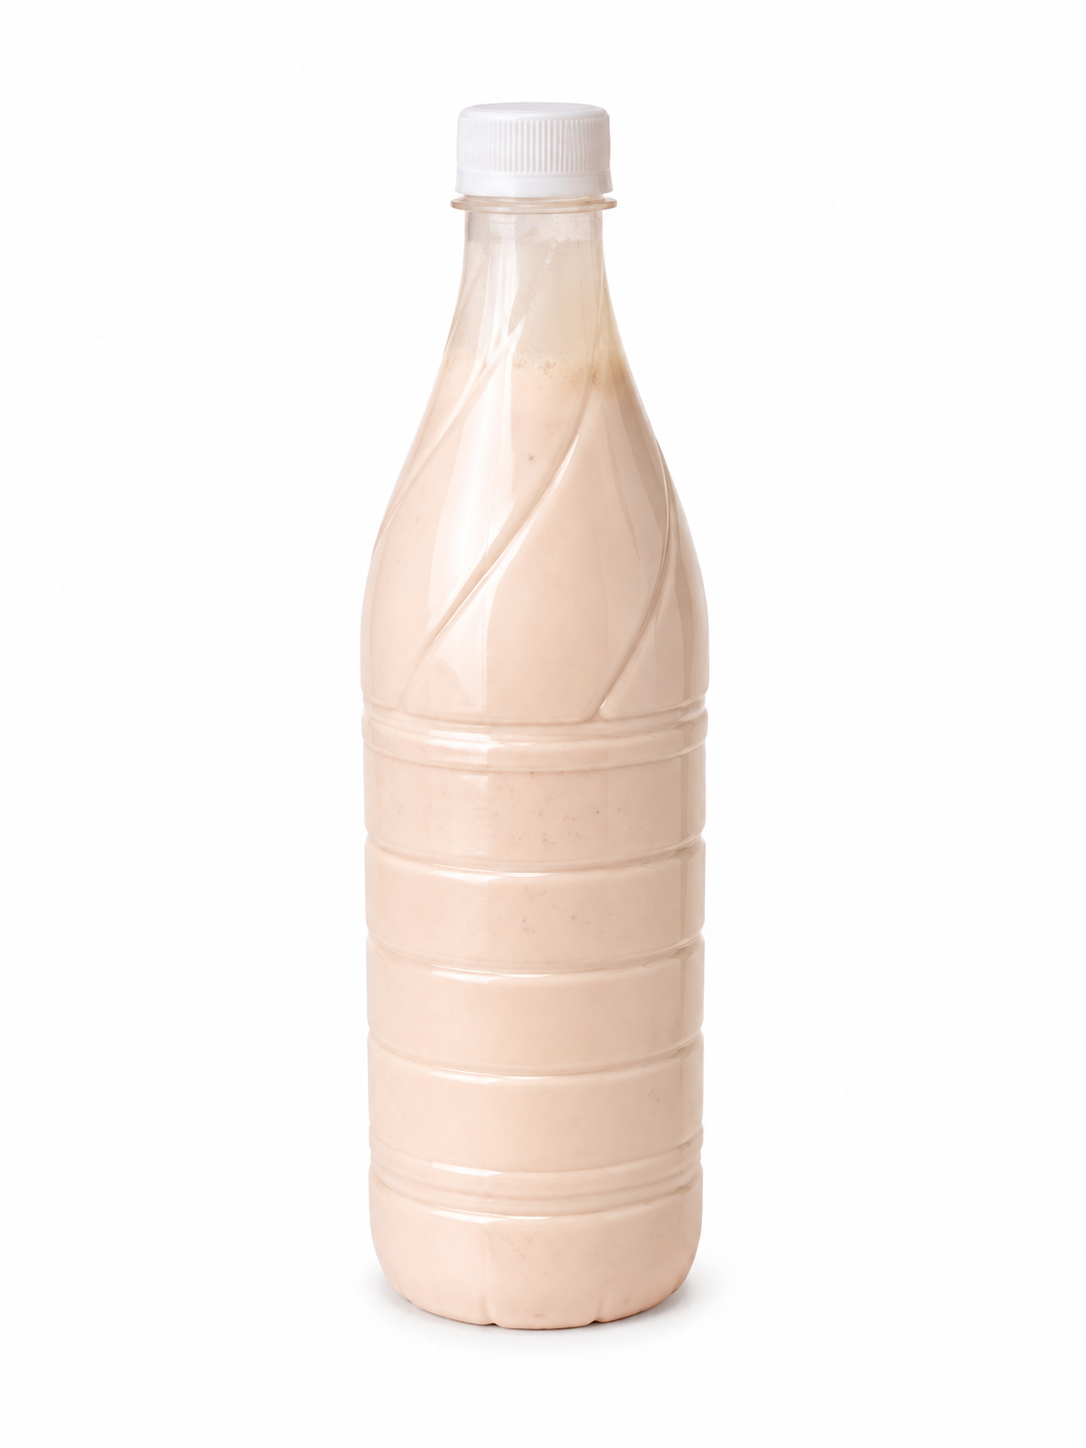
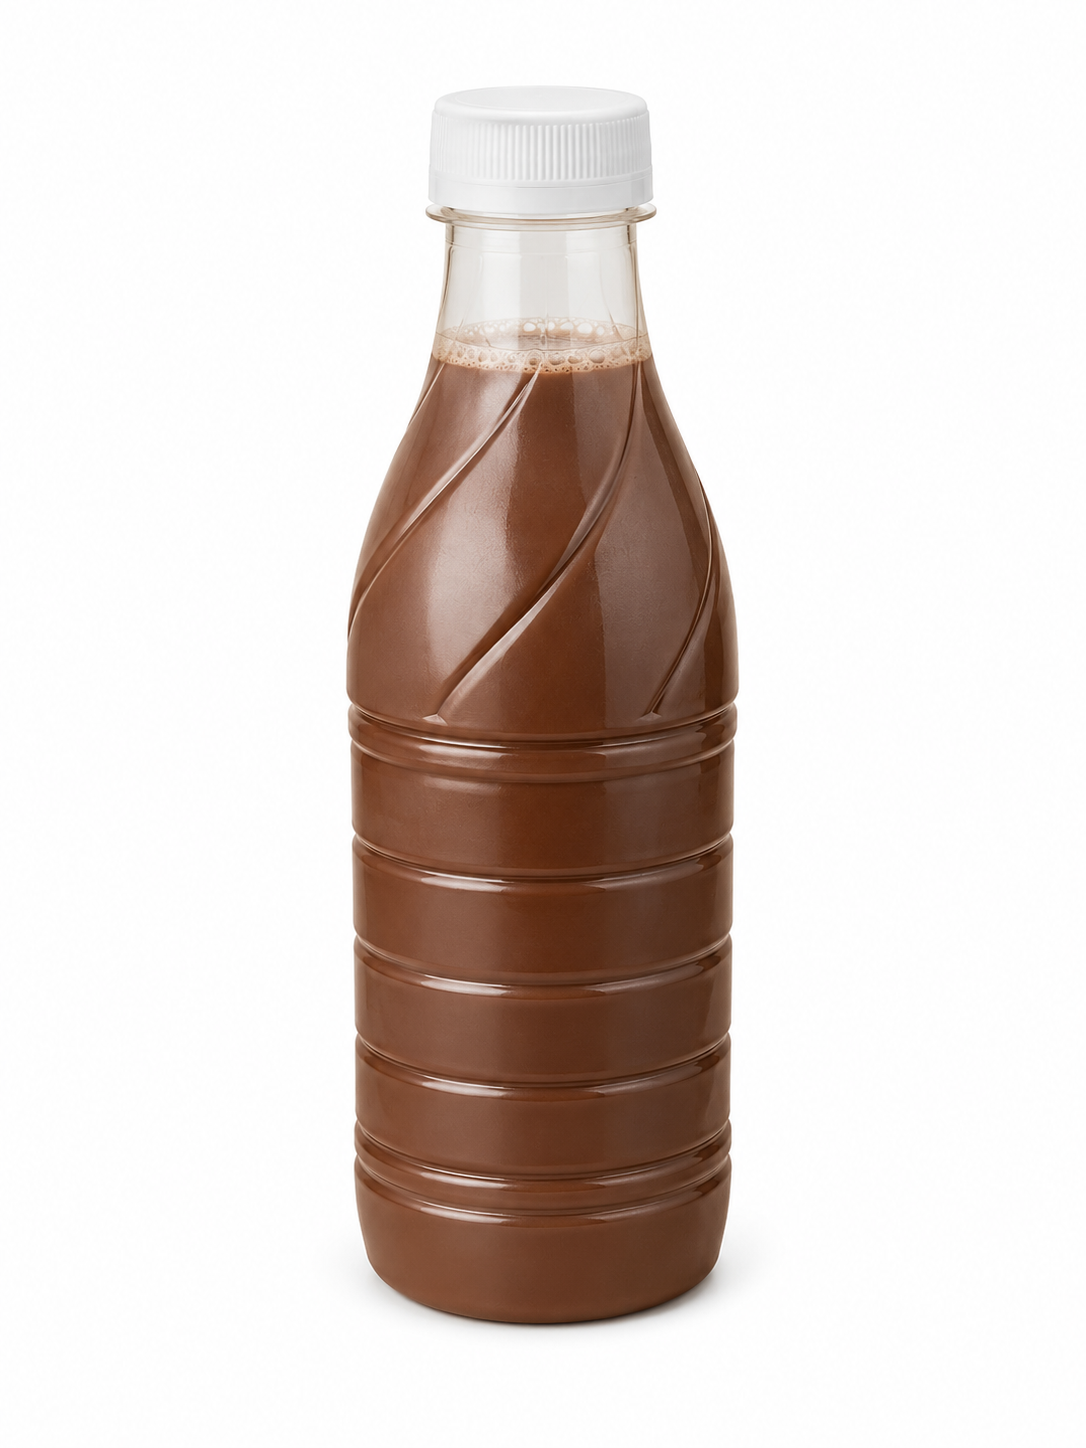
Completely remove top blocks and emojis for products without photos

Changed region(s): [[0.3039, 0.0622, 0.6989, 0.9323]]

diff --git a/js/products.js b/js/products.js
@@ -1,4 +1,4 @@
-// Fetch and render products dynamically with perfectly aligned, symmetrical cards
+// Fetch and render products dynamically with clean cards (no top placeholder blocks or emojis for items without photos)
 
 const realProductImages = {
     "Chill": "assets/chill.png",
@@ -57,17 +57,6 @@ const realProductImages = {
     "Glace": "assets/glace.png",
     "Pain Marbré": "assets/marbre.png",
     "Pain de Mie": "assets/pain de mie.png"
-};
-
-const catIcons = {
-    'pain': '🥖',
-    'viennoiserie': '🥐',
-    'patisserie': '🍰',
-    'cafe': '☕',
-    'jus': '🥤',
-    'glace': '🍨',
-    'boisson': '🥤',
-    'snack': '🍕'
 };
 
 const FALLBACK_PRODUCTS = [
@@ -218,69 +207,75 @@ function renderProducts(productsList) {
         const imgSrc = realProductImages[p.nom] || (p.image && p.image !== 'null' ? p.image : null);
         const hasRealImage = !!imgSrc;
         
-        const imageHeaderHTML = hasRealImage ? `
-            <div class="position-relative overflow-hidden product-img-container" style="height:160px;background:#ffffff;">
-                <img loading="lazy" src="${imgSrc}" class="card-img-top product-img" alt="${p.nom}" 
-                    style="height:160px;width:100%;object-fit:cover;transition:transform 0.4s ease;"
-                    onerror="handleImgError(this, '${p.categorie}')">
-                <button class="wishlist-btn position-absolute top-0 end-0 m-2 btn btn-sm bg-white rounded-circle shadow-sm border-0 text-danger"
-                    title="Ajouter aux favoris" style="width:32px;height:32px;padding:0;">
-                    <i class="fa-regular fa-heart"></i>
-                </button>
-                <span class="badge position-absolute top-0 start-0 m-2" style="background:rgba(43,22,12,0.85);font-size:0.65rem;">${getCatLabel(p.categorie)}</span>
-            </div>
-        ` : `
-            <div class="position-relative overflow-hidden product-img-container d-flex align-items-center justify-content-center" 
-                style="height:160px; background:#faf7f2; border-bottom:1px solid #f1ece1;">
-                <span style="font-size:3.2rem; opacity:0.85;">${catIcons[p.categorie] || '🍞'}</span>
-                <button class="wishlist-btn position-absolute top-0 end-0 m-2 btn btn-sm bg-white rounded-circle shadow-sm border-0 text-danger"
-                    title="Ajouter aux favoris" style="width:32px;height:32px;padding:0;">
-                    <i class="fa-regular fa-heart"></i>
-                </button>
-                <span class="badge position-absolute top-0 start-0 m-2" style="background:rgba(43,22,12,0.85);font-size:0.65rem;">${getCatLabel(p.categorie)}</span>
-            </div>
-        `;
-
-        return `
-        <div class="col product-card-wrapper" data-category="${p.categorie}" data-name="${(p.nom || '').toLowerCase()}">
-            <div class="card premium-product-card h-100 border-0 shadow-sm position-relative overflow-hidden" style="border-radius:12px;">
-                ${imageHeaderHTML}
-                <div class="card-body p-2 d-flex flex-column">
-                    <h6 class="card-title fw-semibold mb-1" style="font-size:0.85rem;color:#2b160c;">${p.nom}</h6>
-                    <div class="d-flex align-items-center gap-1 mb-2">
-                        <span class="text-warning" style="font-size:0.65rem;">★★★★<span class="text-muted">★</span></span>
-                        <span class="text-muted" style="font-size:0.7rem;">(${Math.floor(Math.random()*150)+20})</span>
+        if (hasRealImage) {
+            return `
+            <div class="col product-card-wrapper" data-category="${p.categorie}" data-name="${(p.nom || '').toLowerCase()}">
+                <div class="card premium-product-card h-100 border-0 shadow-sm position-relative overflow-hidden" style="border-radius:12px;">
+                    <div class="position-relative overflow-hidden product-img-container" style="height:160px;background:#ffffff;">
+                        <img loading="lazy" src="${imgSrc}" class="card-img-top product-img" alt="${p.nom}" 
+                            style="height:160px;width:100%;object-fit:cover;transition:transform 0.4s ease;"
+                            onerror="handleImgError(this, '${p.categorie}')">
+                        <button class="wishlist-btn position-absolute top-0 end-0 m-2 btn btn-sm bg-white rounded-circle shadow-sm border-0 text-danger"
+                            title="Ajouter aux favoris" style="width:32px;height:32px;padding:0;">
+                            <i class="fa-regular fa-heart"></i>
+                        </button>
+                        <span class="badge position-absolute top-0 start-0 m-2" style="background:rgba(43,22,12,0.85);font-size:0.65rem;">${getCatLabel(p.categorie)}</span>
                     </div>
-                    <div class="d-flex align-items-baseline gap-2 mb-2">
-                        <span class="fw-bold text-dark" style="font-size:1rem;">${(p.prix || 0).toLocaleString()} <small>FCFA</small></span>
+                    <div class="card-body p-2 d-flex flex-column">
+                        <h6 class="card-title fw-semibold mb-1" style="font-size:0.85rem;color:#2b160c;">${p.nom}</h6>
+                        <div class="d-flex align-items-center gap-1 mb-2">
+                            <span class="text-warning" style="font-size:0.65rem;">★★★★<span class="text-muted">★</span></span>
+                            <span class="text-muted" style="font-size:0.7rem;">(${Math.floor(Math.random()*150)+20})</span>
+                        </div>
+                        <div class="d-flex align-items-baseline gap-2 mb-2">
+                            <span class="fw-bold text-dark" style="font-size:1rem;">${(p.prix || 0).toLocaleString()} <small>FCFA</small></span>
+                        </div>
+                        <button class="btn btn-primary btn-sm w-100 fw-bold text-dark mt-auto add-to-cart-btn"
+                            style="font-size:0.78rem;" onclick="addToCart('${p.nom.replace(/'/g, "\\'")}', ${p.prix}, '${imgSrc || ''}')">
+                            <i class="fa-solid fa-cart-plus me-1"></i>AJOUTER
+                        </button>
                     </div>
-                    <button class="btn btn-primary btn-sm w-100 fw-bold text-dark mt-auto add-to-cart-btn"
-                        style="font-size:0.78rem;" onclick="addToCart('${p.nom.replace(/'/g, "\\'")}', ${p.prix}, '${imgSrc || ''}')">
-                        <i class="fa-solid fa-cart-plus me-1"></i>AJOUTER
-                    </button>
                 </div>
             </div>
-        </div>
-        `;
+            `;
+        } else {
+            // Clean, elegant card without ANY top image block or emoji placeholder
+            return `
+            <div class="col product-card-wrapper" data-category="${p.categorie}" data-name="${(p.nom || '').toLowerCase()}">
+                <div class="card premium-product-card h-100 border-0 shadow-sm position-relative overflow-hidden" style="border-radius:12px;background:#ffffff;">
+                    <div class="card-body p-3 d-flex flex-column">
+                        <div class="d-flex justify-content-between align-items-center mb-2">
+                            <span class="badge" style="background:#2b160c;color:#ffffff;font-size:0.65rem;">${getCatLabel(p.categorie)}</span>
+                            <button class="wishlist-btn btn btn-sm p-0 border-0 text-danger" title="Ajouter aux favoris">
+                                <i class="fa-regular fa-heart"></i>
+                            </button>
+                        </div>
+                        <h6 class="card-title fw-bold mb-1" style="font-size:0.92rem;color:#2b160c;">${p.nom}</h6>
+                        <div class="d-flex align-items-center gap-1 mb-2">
+                            <span class="text-warning" style="font-size:0.65rem;">★★★★<span class="text-muted">★</span></span>
+                            <span class="text-muted" style="font-size:0.7rem;">(${Math.floor(Math.random()*150)+20})</span>
+                        </div>
+                        <div class="d-flex align-items-baseline gap-2 mb-3">
+                            <span class="fw-bold text-dark" style="font-size:1.1rem;">${(p.prix || 0).toLocaleString()} <small>FCFA</small></span>
+                        </div>
+                        <button class="btn btn-primary btn-sm w-100 fw-bold text-dark mt-auto add-to-cart-btn"
+                            style="font-size:0.78rem;" onclick="addToCart('${p.nom.replace(/'/g, "\\'")}', ${p.prix}, '')">
+                            <i class="fa-solid fa-cart-plus me-1"></i>AJOUTER
+                        </button>
+                    </div>
+                </div>
+            </div>
+            `;
+        }
     }).join('');
 }
 
 window.handleImgError = function(img, cat) {
-    const parent = img.closest('.product-card-wrapper');
-    if (parent) {
-        const container = parent.querySelector('.product-img-container');
+    const card = img.closest('.premium-product-card');
+    if (card) {
+        const container = card.querySelector('.product-img-container');
         if (container) {
-            container.outerHTML = `
-                <div class="position-relative overflow-hidden product-img-container d-flex align-items-center justify-content-center" 
-                    style="height:160px; background:#faf7f2; border-bottom:1px solid #f1ece1;">
-                    <span style="font-size:3.2rem; opacity:0.85;">${catIcons[cat] || '🍞'}</span>
-                    <button class="wishlist-btn position-absolute top-0 end-0 m-2 btn btn-sm bg-white rounded-circle shadow-sm border-0 text-danger"
-                        title="Ajouter aux favoris" style="width:32px;height:32px;padding:0;">
-                        <i class="fa-regular fa-heart"></i>
-                    </button>
-                    <span class="badge position-absolute top-0 start-0 m-2" style="background:rgba(43,22,12,0.85);font-size:0.65rem;">${getCatLabel(cat)}</span>
-                </div>
-            `;
+            container.remove();
         }
     }
 }
